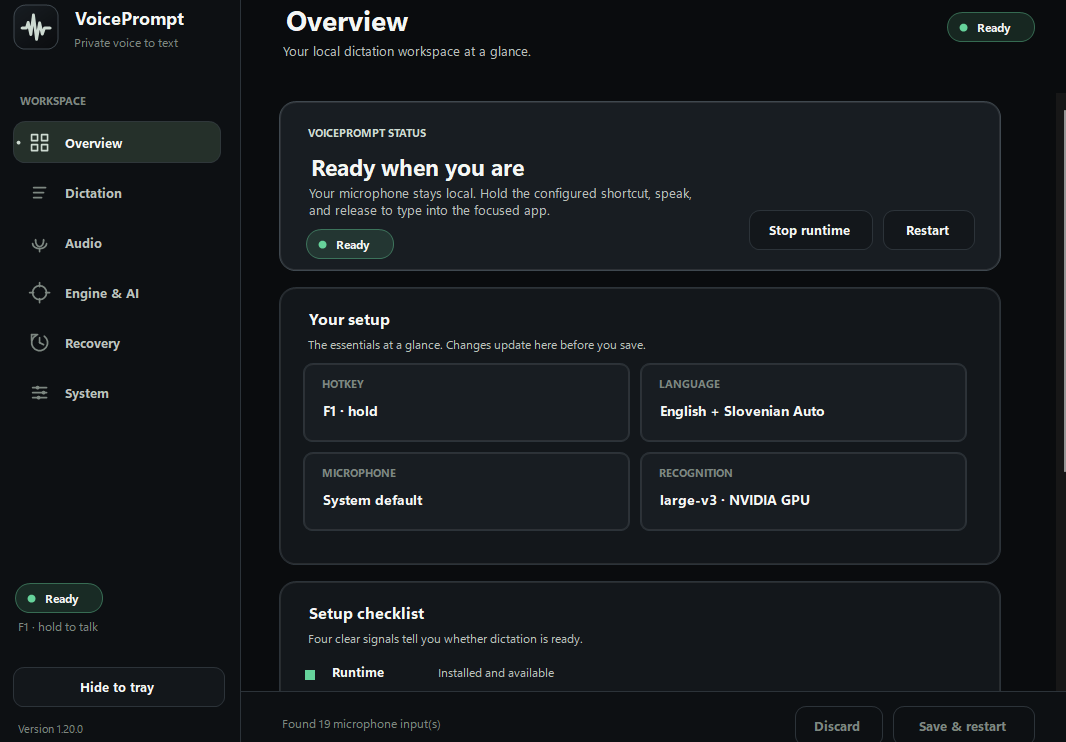
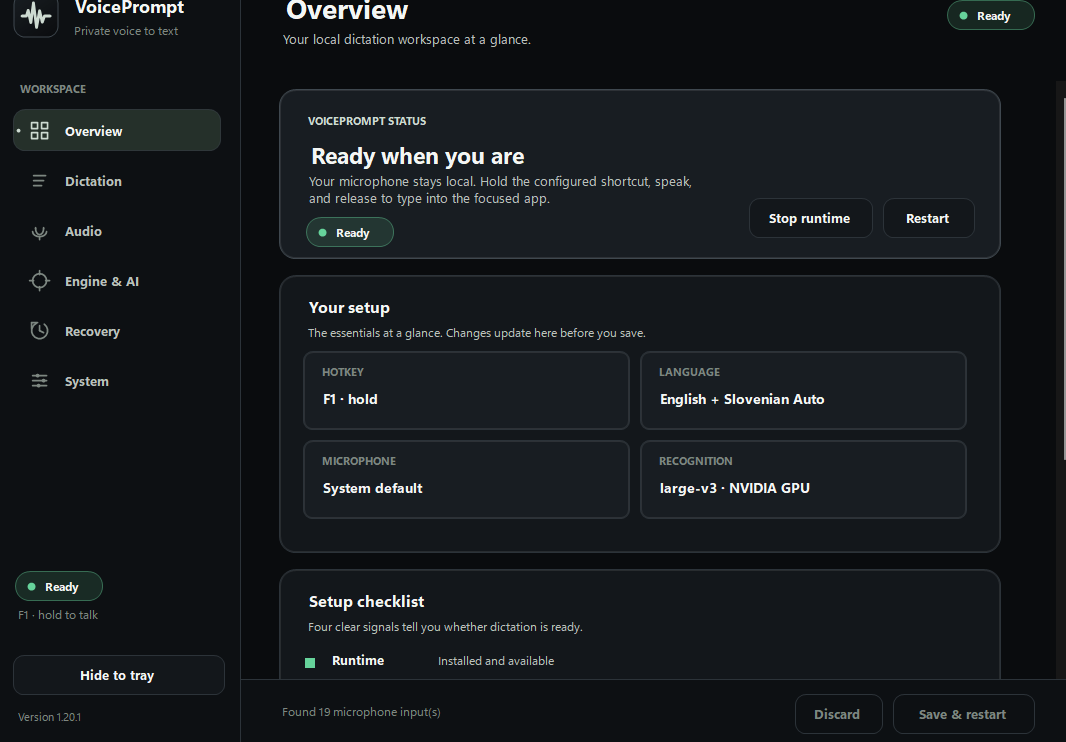
fix(installer): harden Windows runtime stop
Verify the managed Python process before using the upgrade fallback. Distinguish exited Windows processes and avoid the unavailable SIGKILL constant.

diff --git a/tests/test_decoding_options.py b/tests/test_decoding_options.py
@@ -44,7 +44,7 @@ class DecodingOptionsTests(unittest.TestCase):
         self.assertIn('"engine/local.py -- obsolete selective retry"', patch)
         self.assertIn("$packageDecodingOptions", installer)
         self.assertIn('"decoding_options.py") -Force', installer)
-        self.assertIn('Invoke-Checked $daemonExe @("stop")', installer)
+        self.assertIn("Stop-VoicePromptRuntime -DaemonExe $daemonExe", installer)
         self.assertIn("$normalizedContent", patch)
         self.assertIn("$normalizedFind", patch)
         self.assertIn('DICTATION_PASTE_DELAY", "0.35"', runner)

diff --git a/scripts/ai_rewriter.py b/scripts/ai_rewriter.py
@@ -120,7 +120,7 @@ class AiRewriter:
     def __init__(self, config_path: str | Path | None = None):
         self.settings = _load_settings(Path(config_path) if config_path else _default_config_path())
         self.session = requests.Session()
-        self.session.headers.update({"User-Agent": "VoicePrompt/1.20.0"})
+        self.session.headers.update({"User-Agent": "VoicePrompt/1.20.1"})
         self._lock = threading.Lock()
         self.last_error = ""
         self.last_latency_ms = 0

diff --git a/README.md b/README.md
@@ -69,7 +69,7 @@ Measured on an RTX 5080:
 
 Requirements: **64-bit Windows 11**, **Python 3.11+**, an **NVIDIA GPU with a current driver**, and roughly **10 GB of free disk space** for the runtime and model.
 
-1. Open the [latest VoicePrompt release](https://github.com/seNkoKG/VoicePrompt/releases/latest) and download `VoicePrompt-v1.20.0-windows-x64.zip`.
+1. Open the [latest VoicePrompt release](https://github.com/seNkoKG/VoicePrompt/releases/latest) and download `VoicePrompt-v1.20.1-windows-x64.zip`.
 2. Extract the ZIP, open PowerShell in that folder, and run:
 
 ```powershell

diff --git a/CHANGELOG.md b/CHANGELOG.md
@@ -1,5 +1,13 @@
 # Changelog
 
+## [1.20.1] - 2026-08-12
+
+### Fixed
+
+- Make Windows process-liveness checks distinguish a running process from an exited process whose handle is still queryable.
+- Fall back to stopping only the verified managed VoicePrompt Python process when an older runtime's upstream `stop` command fails during upgrade.
+- Avoid upstream's unavailable `SIGKILL` constant on Windows while retaining the normal forced-stop path on other platforms.
+
 ## [1.20.0] - 2026-08-12
 
 ### Added
